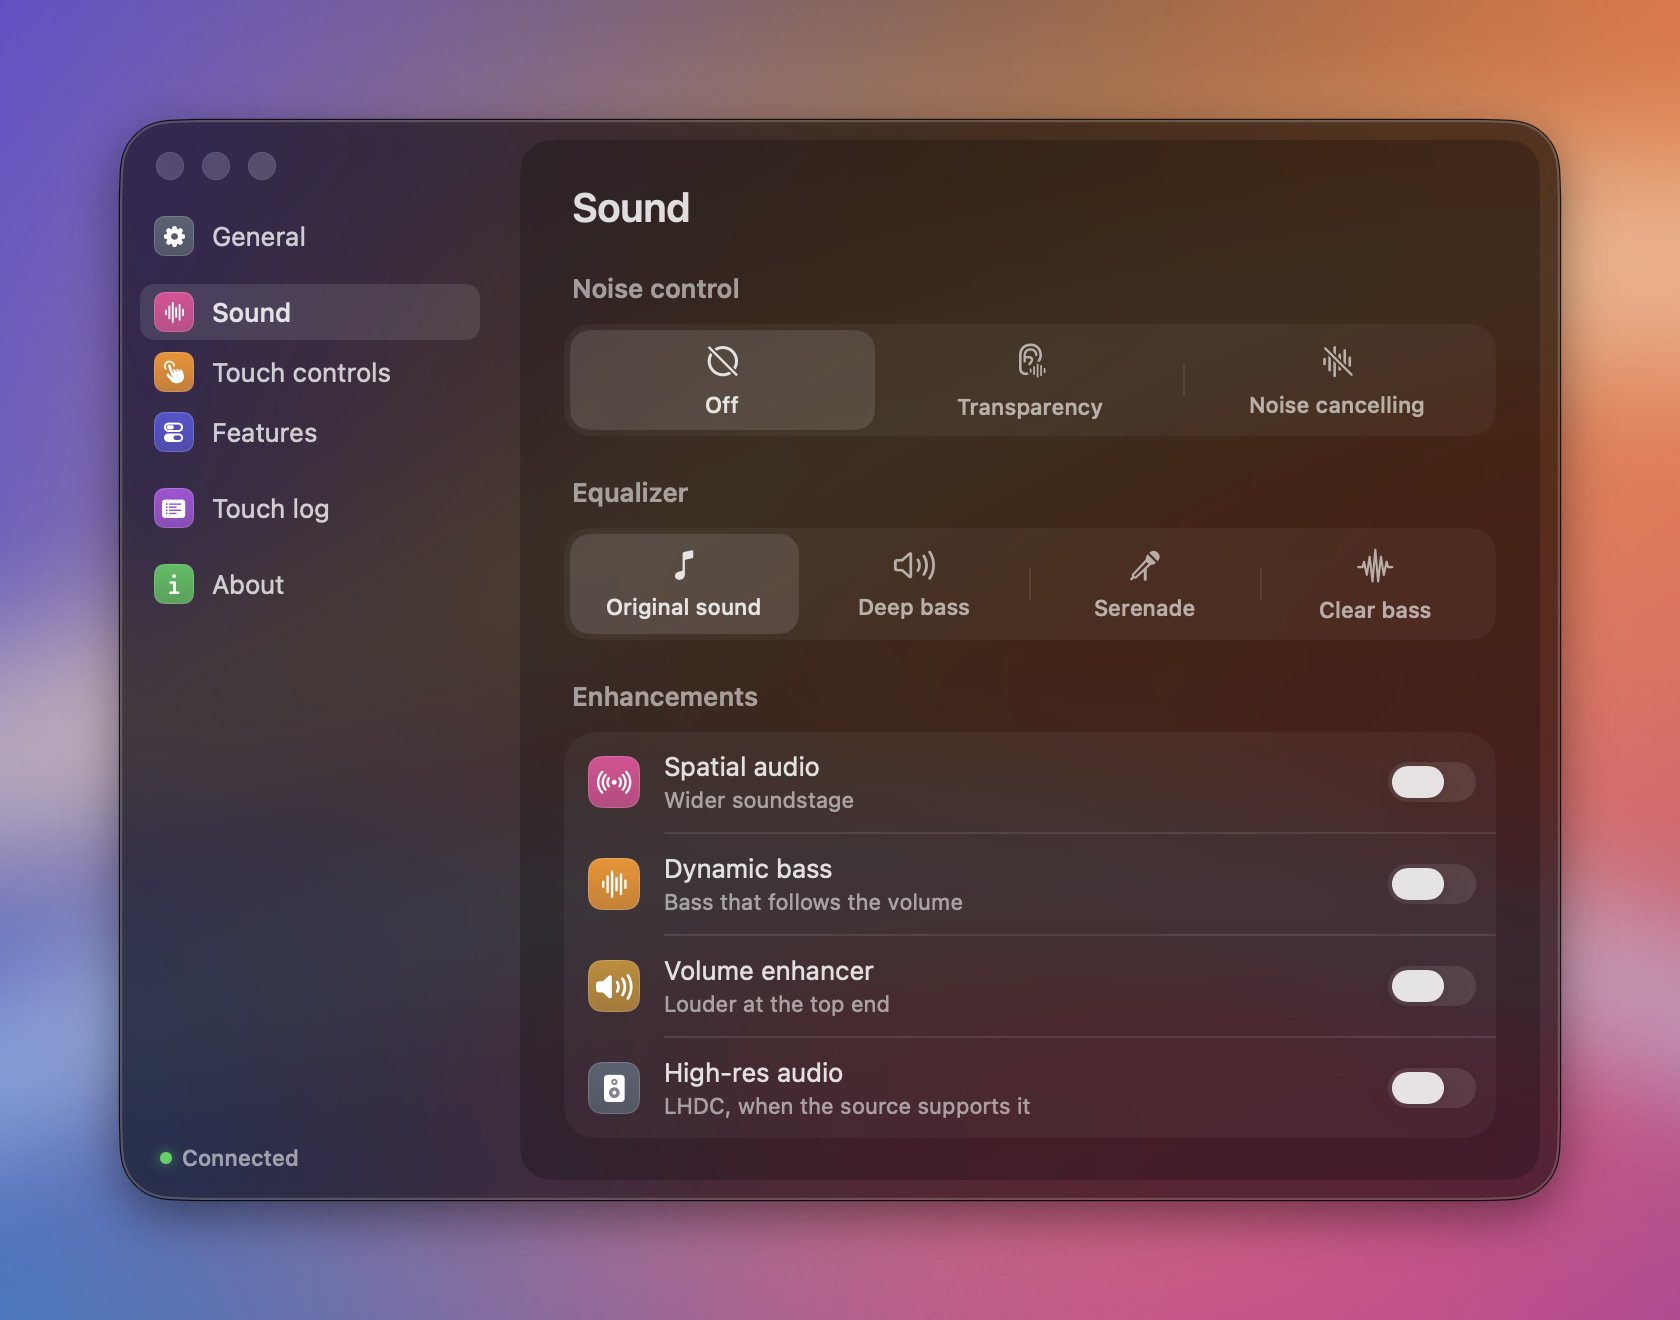
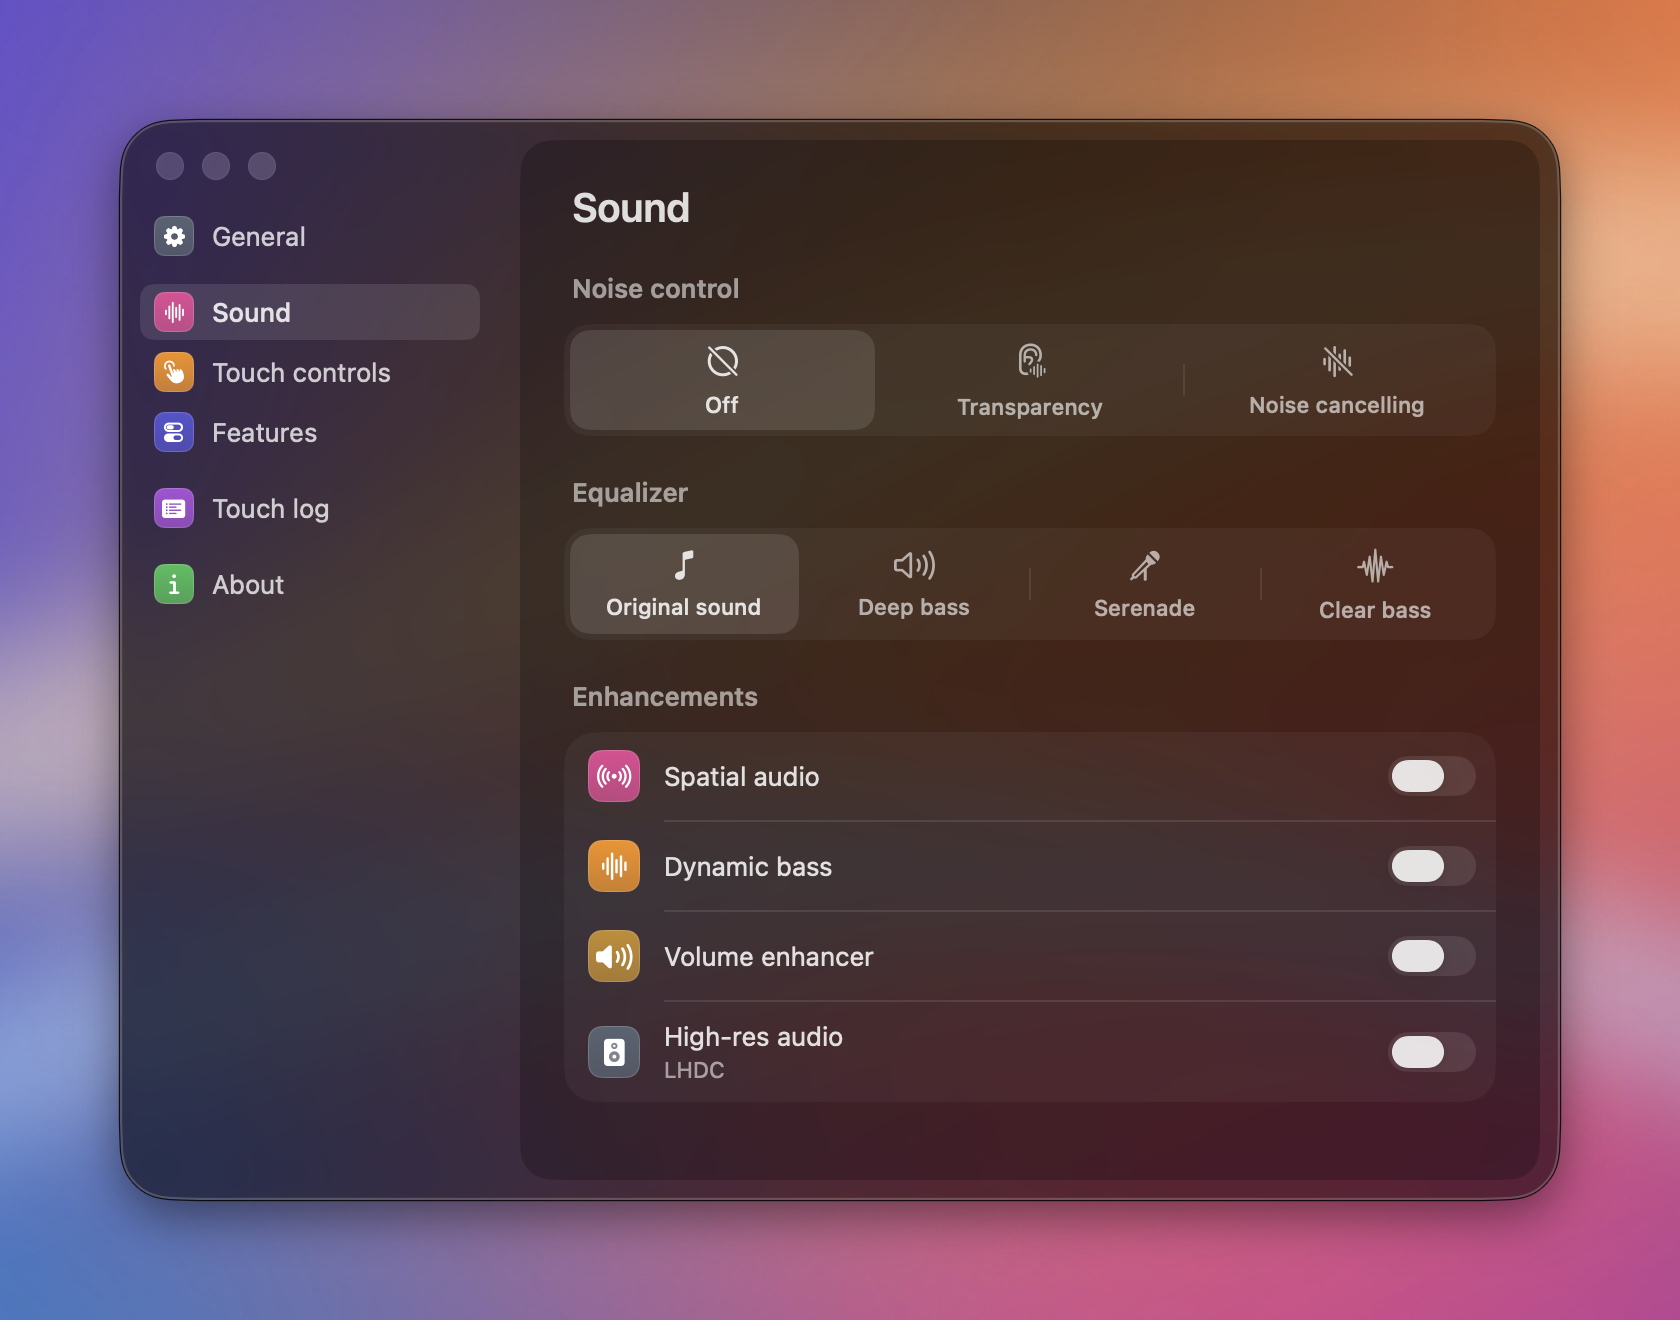
Drop status dots and filler copy
The sidebar status dot and the glowing dot in the panel header are gone;
the header now says the firmware version, or plain "Connecting…" / "Not
connected". Cut the explainer paragraphs on Touch controls and Touch log,
and the feature descriptions that weren't saying anything concrete.
Screenshots retaken.

diff --git a/App/Sources/SettingsView.swift b/App/Sources/SettingsView.swift
@@ -48,11 +48,6 @@ struct SettingsView: View {
                 }
             }
             Spacer()
-            HStack(spacing: 6) {
-                StatusDot(link: buds.link)
-            }
-            .padding(.horizontal, 10)
-            .padding(.bottom, 14)
         }
         .padding(.horizontal, 10)
         .frame(width: 190)
@@ -85,7 +80,7 @@ struct SettingsView: View {
     @ViewBuilder private var page: some View {
         if buds.link != .connected && nav.page != .about && nav.page != .log {
             ChromeCard {
-                ChromeRow(title: "Buds not connected", detail: "Settings appear once the control channel is open.") {
+                ChromeRow(title: "Buds not connected", detail: nil) {
                     IconTile(symbol: "earbuds.case", hue: 8)
                 } control: {
                     if buds.link == .disconnected {
@@ -158,7 +153,7 @@ private struct GeneralPage: View {
                     }
                 }
                 ChromeRowDivider(inset: 50)
-                ChromeRow(title: "Dual connection", detail: "Stay connected to your phone and this Mac") {
+                ChromeRow(title: "Dual connection", detail: "Phone and Mac at the same time") {
                     IconTile(symbol: "laptopcomputer.and.iphone", hue: 5)
                 } control: {
                     SettingsSwitch(isOn: buds.binding(for: 0x11))
@@ -168,7 +163,7 @@ private struct GeneralPage: View {
 
         ChromeSection(title: "Find") {
             ChromeCard {
-                ChromeRow(title: "Find buds", detail: "Plays a loud tone. Take them out of your ears first.") {
+                ChromeRow(title: "Find buds", detail: "Loud. Take them out first.") {
                     IconTile(symbol: "speaker.wave.3.fill", hue: 1)
                 } control: {
                     ChromeTextButton(symbol: buds.ringing ? "stop.fill" : "play.fill",
@@ -236,10 +231,6 @@ private struct TouchPage: View {
                 }
             }
         }
-        Text("If a bud still acts on its own during calls with everything set to None, the firmware's call gestures (answer, hang up, mute) are the likely path. The Touch log shows what the buds actually register.")
-            .font(.system(size: 11))
-            .foregroundStyle(Chrome.secondaryText)
-            .padding(.horizontal, 4)
     }
 
     private func symbol(_ g: Gesture) -> String {
@@ -278,11 +269,10 @@ private struct LogPage: View {
     @ObservedObject var buds: BudsClient
 
     var body: some View {
-        Text("Every touch the buds register and every time a bud goes in or out of your ear, live. Leave this open during a call: if the phantom shows up as “Left · Double tap”, the touch sensor is firing on its own; if it shows as the left bud going out and back in, it's the wear sensor.")
+        Text("Touches and in/out-of-ear changes, as the buds report them.")
             .font(.system(size: 12))
             .foregroundStyle(Chrome.secondaryText)
             .padding(.horizontal, 4)
-            .fixedSize(horizontal: false, vertical: true)
 
         ChromeSection(title: "Events", trailing: buds.events.isEmpty ? nil : AnyView(
             ChromeTextButton(symbol: "trash", title: "Clear", help: "Clear the log") { buds.clearEvents() }
@@ -309,7 +299,7 @@ private struct LogPage: View {
 private struct AboutPage: View {
     var body: some View {
         ChromeCard {
-            ChromeRow(title: "Buds", detail: "A menu bar controller for realme earbuds, talking OPOv1 straight over Bluetooth.") {
+            ChromeRow(title: "Buds", detail: "Version 1.0") {
                 IconTile(symbol: "earbuds", hue: 0, size: 32)
             } control: { EmptyView() }
         }

diff --git a/App/Sources/BudsClient.swift b/App/Sources/BudsClient.swift
@@ -103,14 +103,14 @@ struct Feature: Identifiable {
 
     static let all: [Feature] = [
         Feature(id: 0x04, title: "In-ear detection", detail: "Pause when a bud comes out", symbol: "ear", hue: 5),
-        Feature(id: 0x08, title: "Auto-answer calls", detail: "Pick up without a tap", symbol: "phone.fill", hue: 4),
-        Feature(id: 0x11, title: "Dual connection", detail: "Stay on two devices at once", symbol: "laptopcomputer.and.iphone", hue: 0),
+        Feature(id: 0x08, title: "Auto-answer calls", detail: "", symbol: "phone.fill", hue: 4),
+        Feature(id: 0x11, title: "Dual connection", detail: "Phone and Mac at the same time", symbol: "laptopcomputer.and.iphone", hue: 0),
         Feature(id: 0x06, title: "Game mode", detail: "Low-latency audio", symbol: "gamecontroller.fill", hue: 3),
-        Feature(id: 0x1A, title: "Wind noise reduction", detail: "For calls outdoors", symbol: "wind", hue: 2),
-        Feature(id: 0x1B, title: "Spatial audio", detail: "Wider soundstage", symbol: "dot.radiowaves.left.and.right", hue: 6),
-        Feature(id: 0x1D, title: "Dynamic bass", detail: "Bass that follows the volume", symbol: "waveform", hue: 1),
-        Feature(id: 0x09, title: "Volume enhancer", detail: "Louder at the top end", symbol: "speaker.wave.3.fill", hue: 7),
-        Feature(id: 0x18, title: "High-res audio", detail: "LHDC, when the source supports it", symbol: "hifispeaker.fill", hue: 8),
+        Feature(id: 0x1A, title: "Wind noise reduction", detail: "", symbol: "wind", hue: 2),
+        Feature(id: 0x1B, title: "Spatial audio", detail: "", symbol: "dot.radiowaves.left.and.right", hue: 6),
+        Feature(id: 0x1D, title: "Dynamic bass", detail: "", symbol: "waveform", hue: 1),
+        Feature(id: 0x09, title: "Volume enhancer", detail: "", symbol: "speaker.wave.3.fill", hue: 7),
+        Feature(id: 0x18, title: "High-res audio", detail: "LHDC", symbol: "hifispeaker.fill", hue: 8),
     ]
 }
 

diff --git a/App/Sources/PanelView.swift b/App/Sources/PanelView.swift
@@ -32,15 +32,21 @@ struct PanelView: View {
                 Text(verbatim: buds.deviceName)
                     .font(.system(size: 15, weight: .semibold))
                     .lineLimit(1)
-                HStack(spacing: 8) {
-                    StatusDot(link: buds.link)
-                    if let fw = buds.firmware {
-                        Text(verbatim: "fw \(fw)").font(.system(size: 11)).foregroundStyle(Chrome.secondaryText)
-                    }
-                }
+                Text(verbatim: status)
+                    .font(.system(size: 11))
+                    .foregroundStyle(Chrome.secondaryText)
             }
             Spacer()
             ChromeCircleButton(symbol: "gearshape", help: "Settings", action: openSettings)
+        }
+    }
+
+    private var status: String {
+        switch buds.link {
+        case .connected: buds.firmware.map { "Firmware \($0)" } ?? "Connected"
+        case .connecting: "Connecting…"
+        case .disconnected: "Not connected"
+        case .noDevice: "No buds paired"
         }
     }
 
@@ -132,7 +138,7 @@ struct PanelView: View {
             if buds.link == .connected {
                 ChromeTextButton(symbol: buds.ringing ? "speaker.slash.fill" : "speaker.wave.2.fill",
                                  title: buds.ringing ? "Stop" : "Find buds",
-                                 help: "Play a loud tone from the buds — take them out first") {
+                                 help: "Play a loud tone from the buds. Take them out first.") {
                     buds.setRinging(!buds.ringing)
                 }
             }

diff --git a/App/Sources/Components.swift b/App/Sources/Components.swift
@@ -139,30 +139,6 @@ struct BatteryRing: View {
     }
 }
 
-struct StatusDot: View {
-    let link: BudsClient.LinkState
-
-    var body: some View {
-        HStack(spacing: 5) {
-            Circle().fill(color).frame(width: 6, height: 6)
-                .shadow(color: color.opacity(0.6), radius: 3)
-            Text(verbatim: label)
-        }
-        .font(.system(size: 11, weight: .medium))
-        .foregroundStyle(Chrome.secondaryText)
-    }
-
-    private var color: Color {
-        switch link { case .connected: Chrome.success; case .connecting: Chrome.warning; default: Chrome.overlay(0.35) }
-    }
-    private var label: String {
-        switch link {
-        case .connected: "Connected"; case .connecting: "Connecting…"
-        case .disconnected: "Not connected"; case .noDevice: "No buds paired"
-        }
-    }
-}
-
 struct EventRow: View {
     let event: TouchEvent
 
